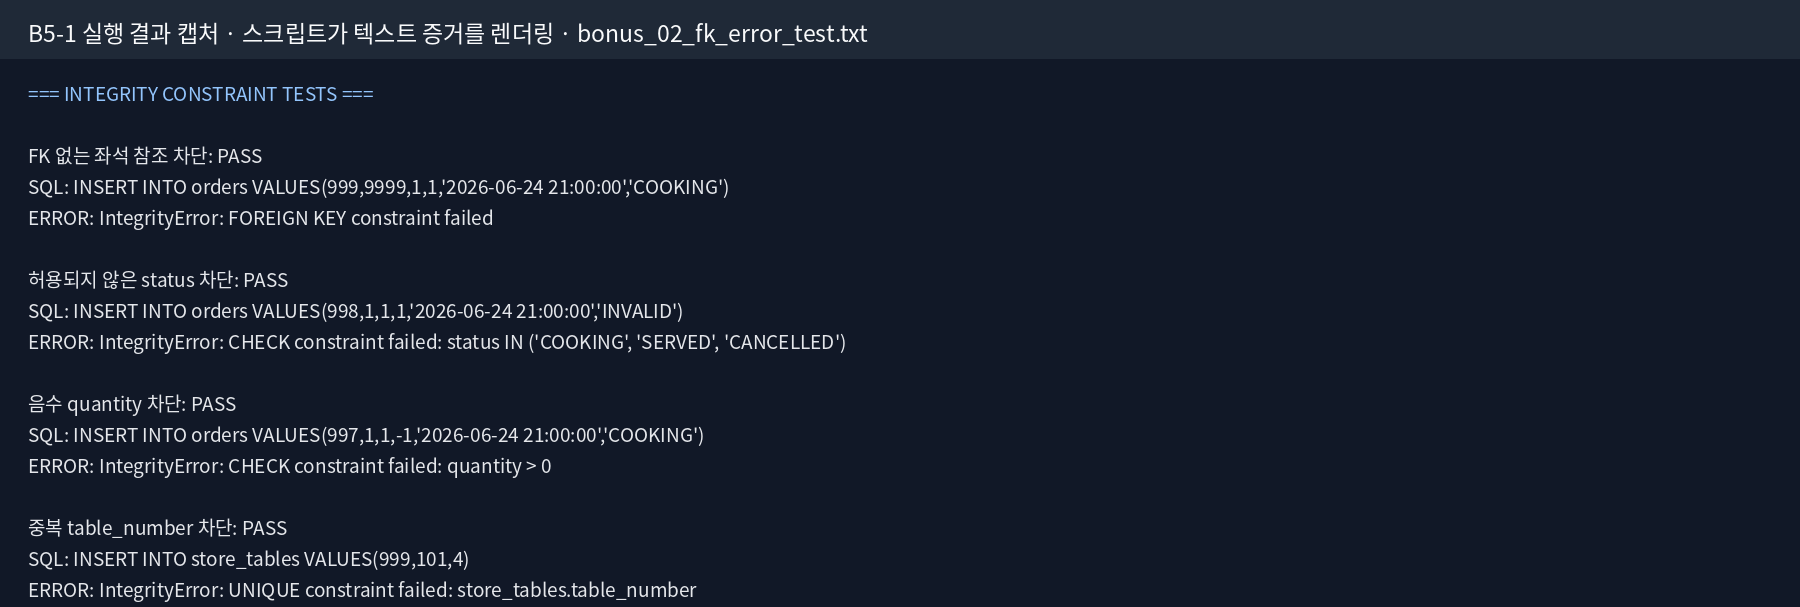
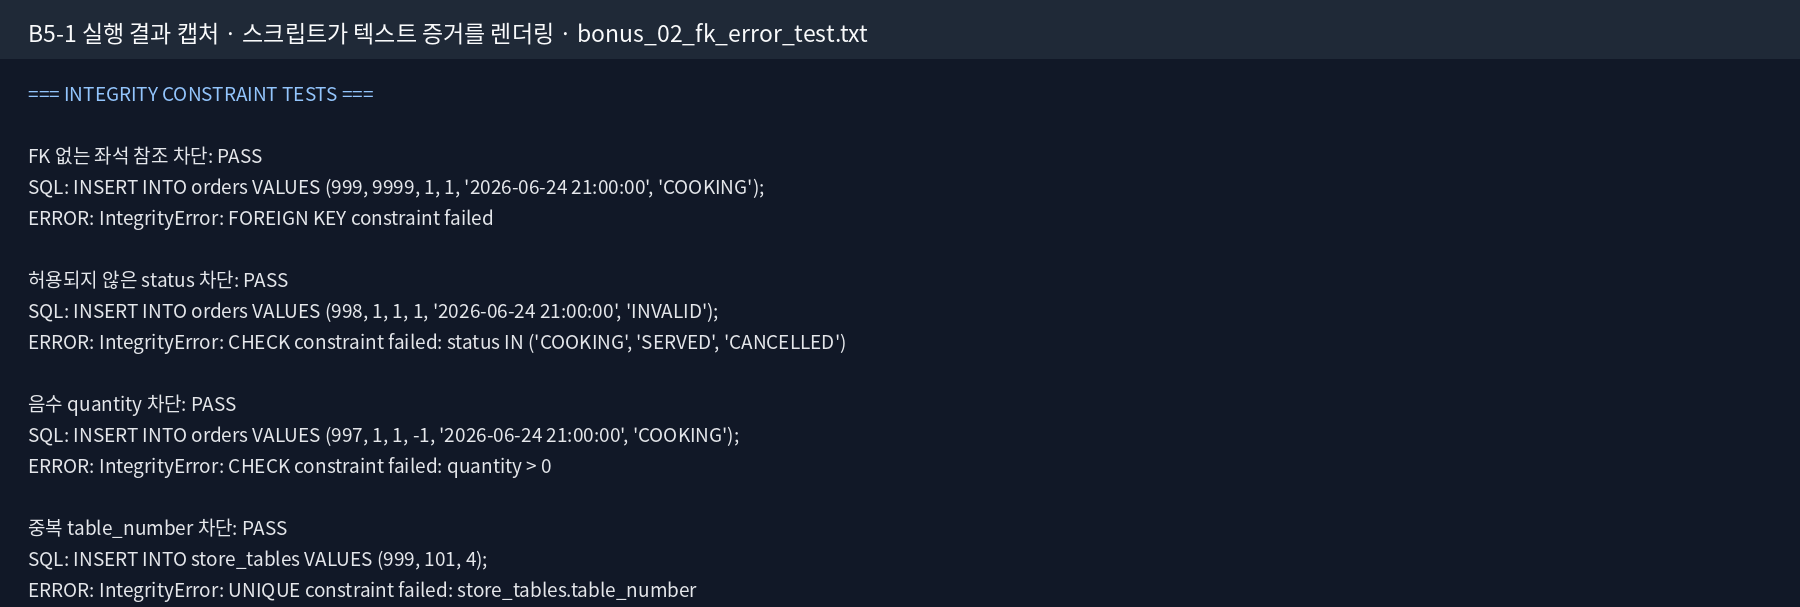
fix(sql): 무결성 파괴 테스트를 SQL 스크립트로 이동
- 보너스 2의 위반 INSERT 4발을 scripts/verify_project.py 하드코딩에서
  4_bonus_queries.sql의 [F01]~[F04] 섹션으로 이동 (SQL 산출물에서만 검토해도
  차단 시도의 원문을 찾을 수 있게 함)
- verify_project.py의 verify_integrity()가 마커를 파싱해 파일 본문에서
  F01~F04를 읽어 실행·assert·rollback 하도록 변경 (SSOT 유지,
  Python 측에는 기대 오류 대응표만 잔존)
- evidence/bonus_02_fk_error_test.txt·captures/bonus_fk_error.png를
  새 SQL 본문 기준으로 재생성
- README(파일 트리·무결성 섹션)·bonus_report.md·development-log.md(§2.15) 동기화
- 검증: scripts/check_all.sh ALL PASS

diff --git a/scripts/verify_project.py b/scripts/verify_project.py
@@ -20,6 +20,15 @@ ROOT = Path(__file__).resolve().parents[1]
 EVIDENCE = ROOT / "evidence"
 CORE_MARKER = re.compile(r"-- \[(Q\d{2})\]\[([^\]]+)\] (.+)")
 BONUS_MARKER = re.compile(r"-- \[(B\d{2})\]\[([^\]]+)\] (.+)")
+FAIL_MARKER = re.compile(r"-- \[(F\d{2})\]\[([^\]]+)\] (.+)")
+# 보너스 2(일부러 무결성 깨뜨리기)의 SQL 본문은 4_bonus_queries.sql [F01]~[F04]에 있다.
+# 여기에는 "어떤 오류로 차단되어야 하는가"만 대응표로 둔다.
+FAIL_EXPECTED = {
+    "F01": ("FK 없는 좌석 참조 차단", "FOREIGN KEY"),
+    "F02": ("허용되지 않은 status 차단", "CHECK constraint failed"),
+    "F03": ("음수 quantity 차단", "CHECK constraint failed"),
+    "F04": ("중복 table_number 차단", "UNIQUE constraint failed"),
+}
 EXPECTED_MINIMUM_ROWS = {
     "menu_categories": 10,
     "store_tables": 10,
@@ -344,32 +353,27 @@ def integrity_case(connection: sqlite3.Connection, name: str, sql: str, expected
     raise AssertionError(f"{name}: 잘못된 데이터가 허용됐습니다.")
 
 
+def sql_body(sql: str) -> str:
+    """주석 줄을 제거한 순수 SQL 본문만 돌려준다(증거 파일에 주석이 섞이지 않게)."""
+    return "\n".join(
+        line for line in sql.splitlines() if not line.strip().startswith("--")
+    ).strip()
+
+
 def verify_integrity(connection: sqlite3.Connection) -> list[str]:
+    """보너스 2: 4_bonus_queries.sql의 [F01]~[F04]를 읽어 위반이 차단되는지 실증한다.
+
+    SQL 본문은 스크립트가 아니라 SQL 파일이 단일 진실 공급원(SSOT)이다.
+    """
+    fail_cases = split_cases("4_bonus_queries.sql", FAIL_MARKER)
+    assert [case.number for case in fail_cases] == ["F01", "F02", "F03", "F04"], (
+        f"무결성 파괴 테스트는 F01~F04 네 개여야 합니다: "
+        f"{[case.number for case in fail_cases]}"
+    )
     tests = [
-        integrity_case(
-            connection,
-            "FK 없는 좌석 참조 차단",
-            "INSERT INTO orders VALUES(999,9999,1,1,'2026-06-24 21:00:00','COOKING')",
-            "FOREIGN KEY",
-        ),
-        integrity_case(
-            connection,
-            "허용되지 않은 status 차단",
-            "INSERT INTO orders VALUES(998,1,1,1,'2026-06-24 21:00:00','INVALID')",
-            "CHECK constraint failed",
-        ),
-        integrity_case(
-            connection,
-            "음수 quantity 차단",
-            "INSERT INTO orders VALUES(997,1,1,-1,'2026-06-24 21:00:00','COOKING')",
-            "CHECK constraint failed",
-        ),
-        integrity_case(
-            connection,
-            "중복 table_number 차단",
-            "INSERT INTO store_tables VALUES(999,101,4)",
-            "UNIQUE constraint failed",
-        ),
+        integrity_case(connection, FAIL_EXPECTED[case.number][0],
+                       sql_body(case.sql), FAIL_EXPECTED[case.number][1])
+        for case in fail_cases
     ]
     (EVIDENCE / "bonus_02_fk_error_test.txt").write_text(
         "=== INTEGRITY CONSTRAINT TESTS ===\n\n" + "\n\n".join(tests) + "\n",

diff --git a/README.md b/README.md
@@ -51,7 +51,7 @@
 ├── 1_schema.sql                 # 4개 테이블과 제약조건
 ├── 2_data.sql                   # 10/12/16/25행 seed
 ├── 3_queries.sql                # 핵심 Query 1~15
-├── 4_bonus_queries.sql          # 동치 비교 2개 + KPI 3개
+├── 4_bonus_queries.sql          # 동치 비교 2개 + KPI 3개 + 무결성 파괴 테스트 4개(F01~F04)
 ├── QUEST.md                     # 공식 PDF 기준 요구사항 정리
 ├── architecture_design.md       # 데이터 모델·스키마 설명
 ├── bonus_report.md              # 보너스 SQL과 실제 결과 분석
@@ -171,6 +171,8 @@ WHERE id = 25 AND status = 'CANCELLED'
 | CHECK | COOKING/SERVED/CANCELLED 외 상태 | `status='INVALID'` 차단 PASS |
 
 ![FK 무결성 오류 실증](evidence/captures/bonus_fk_error.png)
+
+차단 테스트 4개의 SQL 원문은 [`4_bonus_queries.sql`](4_bonus_queries.sql)의 `[F01]~[F04]`에 있다(보너스 2). 이 파일을 sqlite3 CLI로 실행하면 각 문장이 `FOREIGN KEY`·`CHECK`·`UNIQUE` constraint failed 런타임 오류를 출력하는데, 그 오류가 곧 차단 증거다. `verify_project.py`는 같은 4문을 파일 본문에서 읽어 실행하고 `IntegrityError` 발생을 assert한 뒤 rollback하므로 검증 중에 DB가 실제로 깨지지는 않는다.
 
 ## 증거의 종류와 출처
 

diff --git a/docs/development-log.md b/docs/development-log.md
@@ -124,6 +124,12 @@
   - 저장소 밖 절대 경로를 문서에서 전부 제거하고, markdown에 그런 경로·끊긴 링크가 있으면 검증이 실패하게 했다.
   - `verify_project.py`에 문서 동기화 검사를 넣어, 같은 종류의 어긋남이 다시 생기면 PASS가 나오지 않는다.
 
+### 2.15 무결성 파괴 테스트를 SQL 스크립트로 이동 — 2026-09-15
+
+- 발견: 보너스 2("일부러 FK 오류 입력을 시도하고 차단 이유 기록")의 위반 SQL 4발이 `scripts/verify_project.py` 안에만 하드코딩되어 있었다. SQL 산출물(`*.sql`)만 검토하는 채점자/리뷰어는 차단 시도의 원문을 찾을 수 없었다.
+- 해결: `4_bonus_queries.sql` 끝부분에 `[F01]~[F04]` 섹션으로 위반 INSERT 4발을 옮기고, `verify_project.py`의 `verify_integrity()`가 마커를 파싱해 **파일 본문에서** SQL을 읽어 실행하도록 변경(SSOT 유지). Python 측에는 "어떤 오류로 차단되어야 하는가" 대응표만 남겼다.
+- 검증: `scripts/check_all.sh` ALL PASS, `evidence/bonus_02_fk_error_test.txt`와 `evidence/captures/bonus_fk_error.png`가 새 SQL 본문으로 재생성됨.
+
 ## 3. 자동 검증 범위
 
 `python scripts/verify_project.py`는 다음을 검사한다.

diff --git a/bonus_report.md b/bonus_report.md
@@ -4,6 +4,7 @@
 - 실행 결과 원본: [`evidence/bonus_01_compare_methods.txt`](evidence/bonus_01_compare_methods.txt) · [`evidence/bonus_03_kpi_metrics.txt`](evidence/bonus_03_kpi_metrics.txt)
 - 실행 상태: `1_schema.sql → 2_data.sql → 3_queries.sql → 4_bonus_queries.sql` 순서, **Q13·Q14의 변경이 적용된 뒤의 같은 DB**
 - 이 문서의 SQL 인용문은 `python scripts/verify_project.py`가 `4_bonus_queries.sql`과 대조해 어긋나면 검사가 실패한다.
+- 보너스 2(일부러 무결성 깨뜨리기)의 SQL 원문은 이 보고서가 아닌 [`4_bonus_queries.sql`](4_bonus_queries.sql)의 `[F01]~[F04]`에 있고, 증거는 [`evidence/bonus_02_fk_error_test.txt`](evidence/bonus_02_fk_error_test.txt)다.
 
 ## 0. 실행 상태를 먼저 정하는 이유
 
